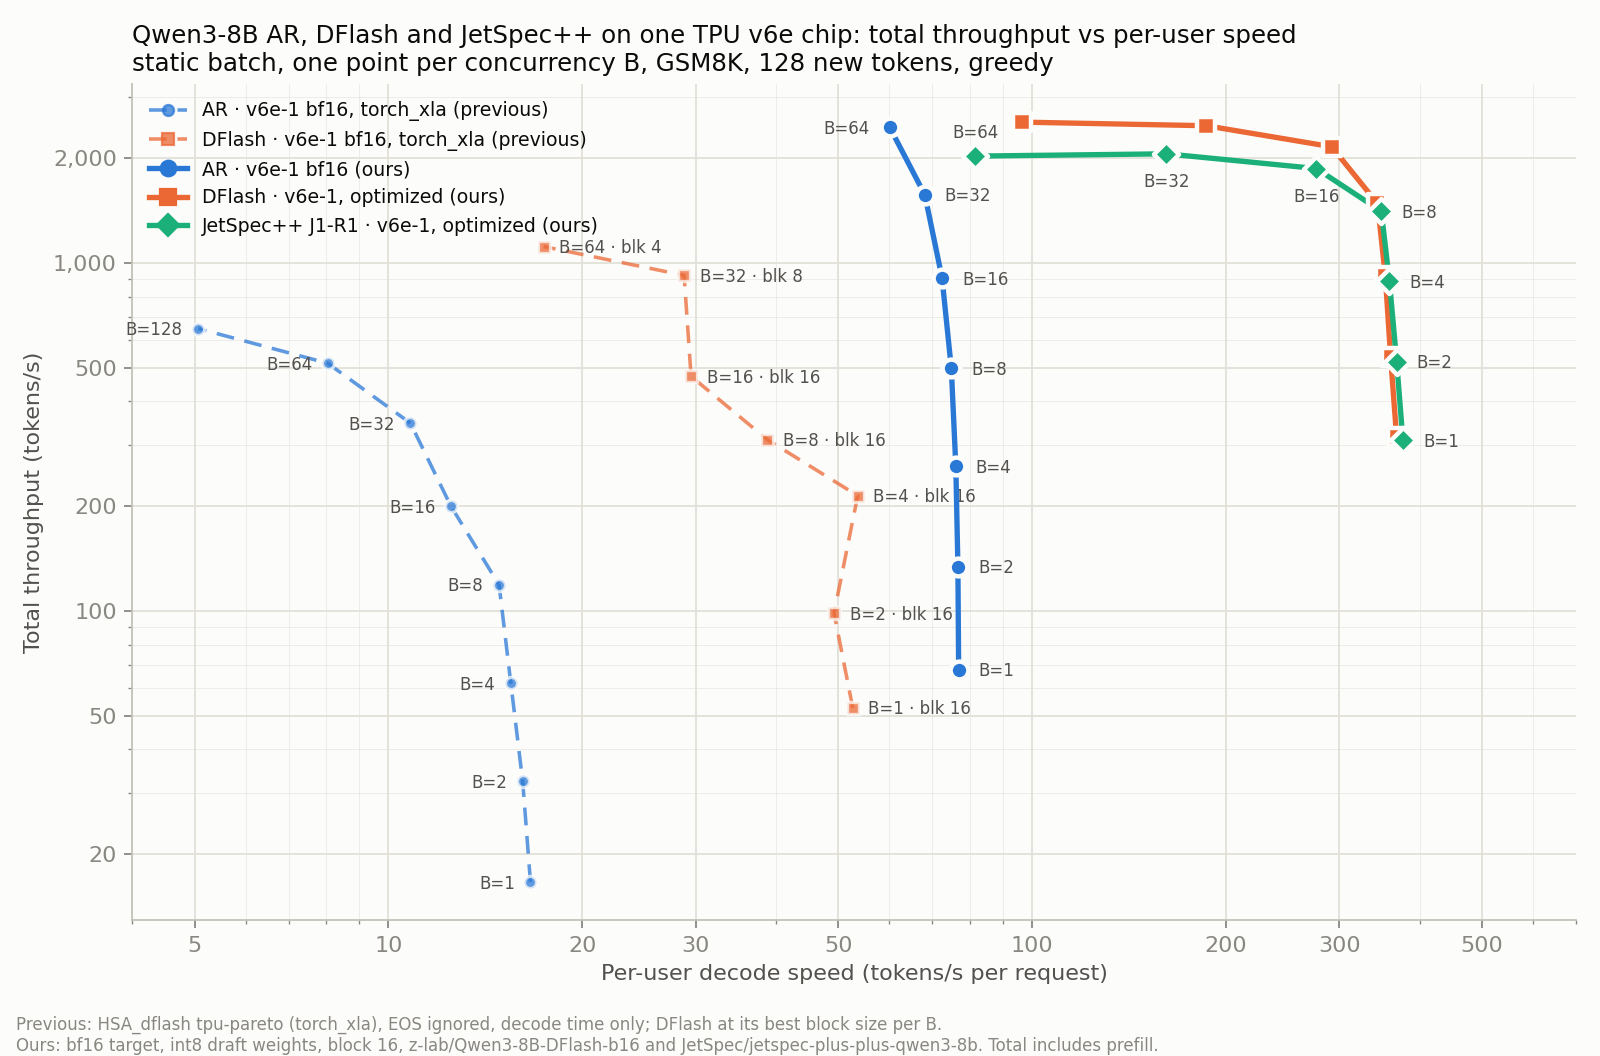
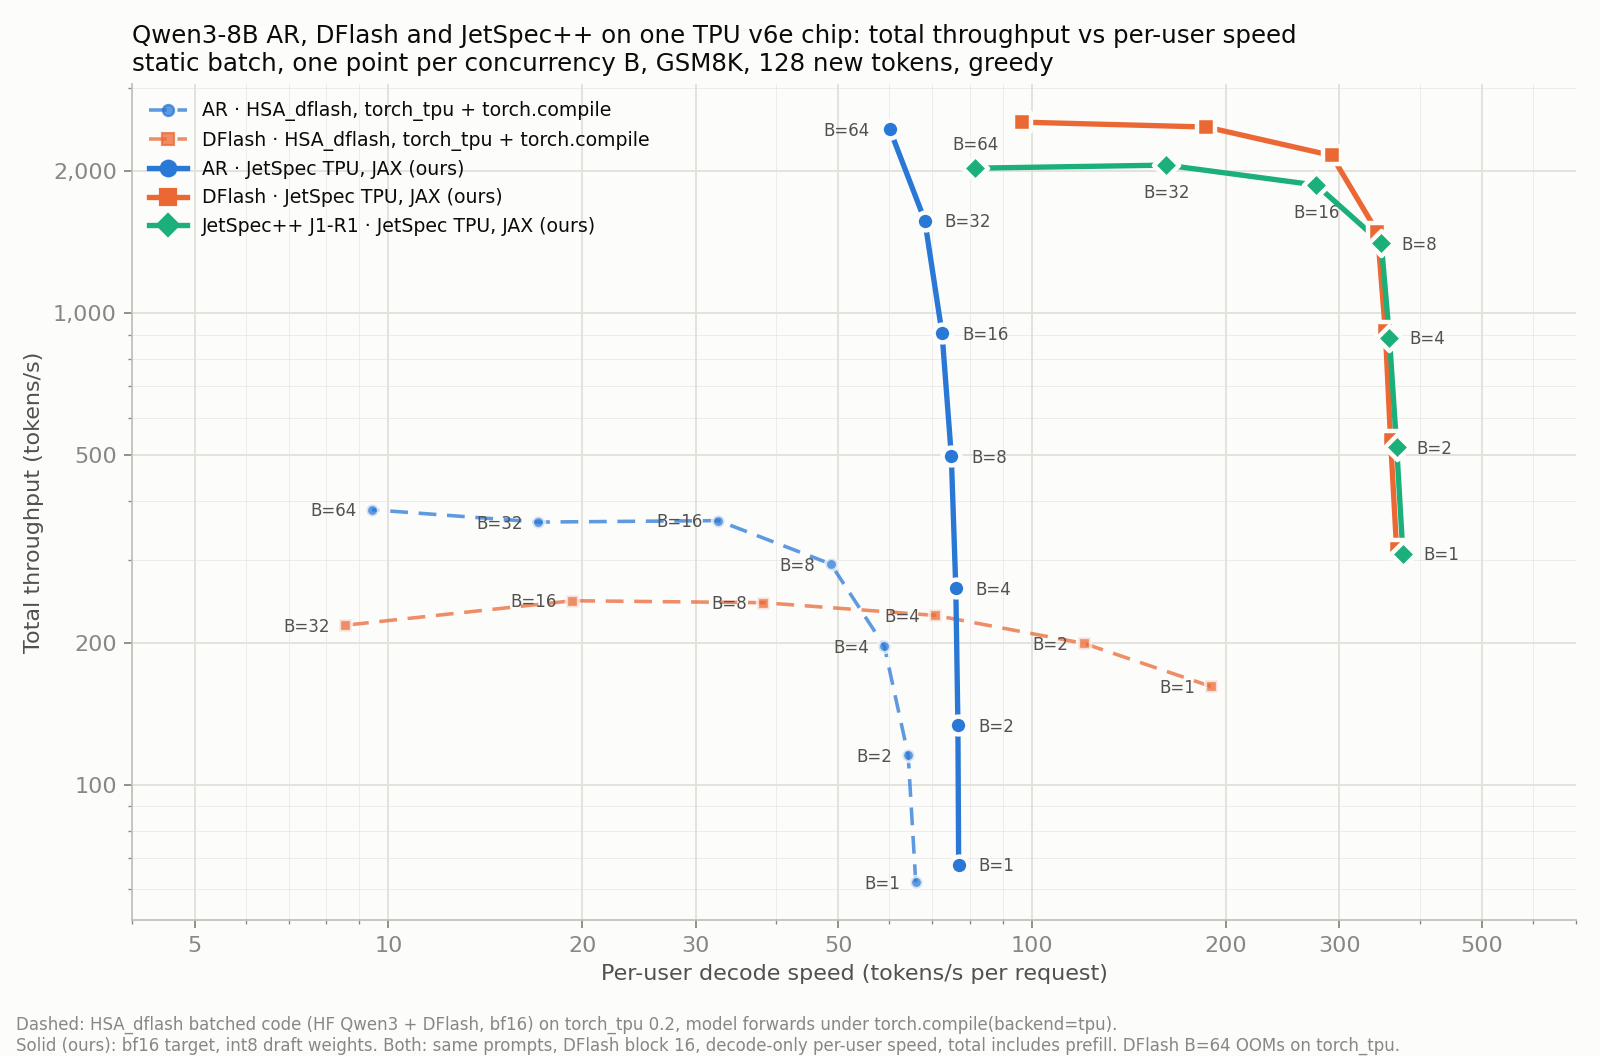
[DOCS] Static-batch frontier: compare with HSA_dflash on torch_tpu + torch.compile
Claude-Session: https://claude.ai/code/session_01QwkRBNHCTnFsc35H9SAqPE

diff --git a/jetspec/engines/jetspec_plus_plus_tpu/README.md b/jetspec/engines/jetspec_plus_plus_tpu/README.md
@@ -79,27 +79,29 @@ Losslessness: every output was compared with AR at B=1. Each one is either ident
 diverges where the two tokens are the target's top 2 (logit gap of at most 0.33). AR at B=2 already
 diverges from AR at B=1 on 41 of 128 requests in the same way, so batch shape alone flips these bf16 ties.
 
-### Against the earlier torch_xla AR and DFlash on v6e-1
+### Against the same algorithms in PyTorch on torch_tpu
 
 ![Static-batch frontier](assets/frontier_static128_v6e.png)
 
-Static batch of B prompts, GSM8K, 128 new tokens, greedy. The previous runs are the torch_xla port in
-[HSA_dflash, branch tpu-pareto](https://github.com/haorany7/HSA_dflash/tree/tpu-pareto)
-(`docs/data/pareto_tpu.jsonl`: EOS ignored, decode time only, DFlash at its best block size per B).
-Ours: per-user is decode tok/s per request, total includes prefill, int8 draft weights, DFlash block 16.
-Data: `assets/frontier_static128_v6e.json`.
+Dashed: the batched AR / DFlash code of
+[HSA_dflash, branch tpu-pareto](https://github.com/haorany7/HSA_dflash/tree/tpu-pareto) (`dflash/batched_xla.py`,
+HF Qwen3 + DFlash, bf16), run on torch_tpu 0.2 with both model forwards under
+`torch.compile(backend="tpu", dynamic=False)`. Solid: this engine (JAX, int8 draft weights). Both use the same
+GSM8K prompts, static batches of B prompts (at least 32 requests per point), 128 new tokens, greedy, DFlash block
+16. Per-user is decode tok/s per request; total includes prefill. Data: `assets/frontier_static128_v6e.json`.
 
-| B | previous AR | AR (ours) | previous DFlash | DFlash (ours) | JetSpec++ J1-R1 (ours) |
+| B | AR, torch_tpu | AR (ours) | DFlash, torch_tpu | DFlash (ours) | JetSpec++ J1-R1 (ours) |
 |---:|---:|---:|---:|---:|---:|
-| 1 | 16.6 / 16.6 | 68 / 77 | 52.6 / 52.7 | 316 / 369 | 309 / **377** |
-| 4 | 62.0 / 15.5 | 261 / 76 | 214.4 / 53.6 | 916 / 354 | 887 / **359** |
-| 16 | 200.0 / 12.5 | 906 / 73 | 472.4 / 29.5 | **2158 / 292** | 1868 / 277 |
-| 64 | 515.0 / 8.1 | 2457 / 60 | 1115.1 / 17.4 | **2540 / 96** | 2029 / 82 |
+| 1 | 62 / 66 | 68 / 77 | 162 / 189 | 316 / 368 | 309 / 377 |
+| 4 | 197 / 59 | 261 / 76 | 229 / 71 | 916 / 354 | 887 / 359 |
+| 16 | 363 / 33 | 906 / 72 | 246 / 19 | 2158 / 292 | 1868 / 277 |
+| 32 | 361 / 17 | 1571 / 68 | 218 / 9 | 2480 / 187 | 2060 / 162 |
+| 64 | 383 / 9 | 2457 / 60 | OOM | 2540 / 96 | 2029 / 82 |
 
-Each cell is total / per-user tok/s. Our AR is 4.6x the previous AR per user at B=1, and the same DFlash
-model is 7x the previous DFlash. The previous step costs about 60 ms at B=1 against 13 ms here: torch_xla
-re-traces the HF model on the host every step and syncs to the host after it, so the chip waits; its
-attention also scans the full cache length with K/V expanded for GQA, which adds about 1 ms per request.
+Each cell is total / per-user tok/s. At B=1 the compiled PyTorch AR is within 15% of ours (15.3 vs 13.0 ms
+per step), and its DFlash accepts as many tokens (tau 5.4) at 1.9x our round time. Its step time grows almost
+linearly with B (AR 15 to 107 ms from B=1 to 64, DFlash 28 to 460 ms from B=1 to 32), so DFlash peaks at about
+250 tok/s in total and runs out of HBM at B=64. Ours stays at 13 to 17 ms per AR step up to B=64.
 JetSpec++ leads DFlash per user by 1-2% up to B=8 and trails it by 13-20% from B=16, where the extra
 refinement passes become compute-bound.
 
